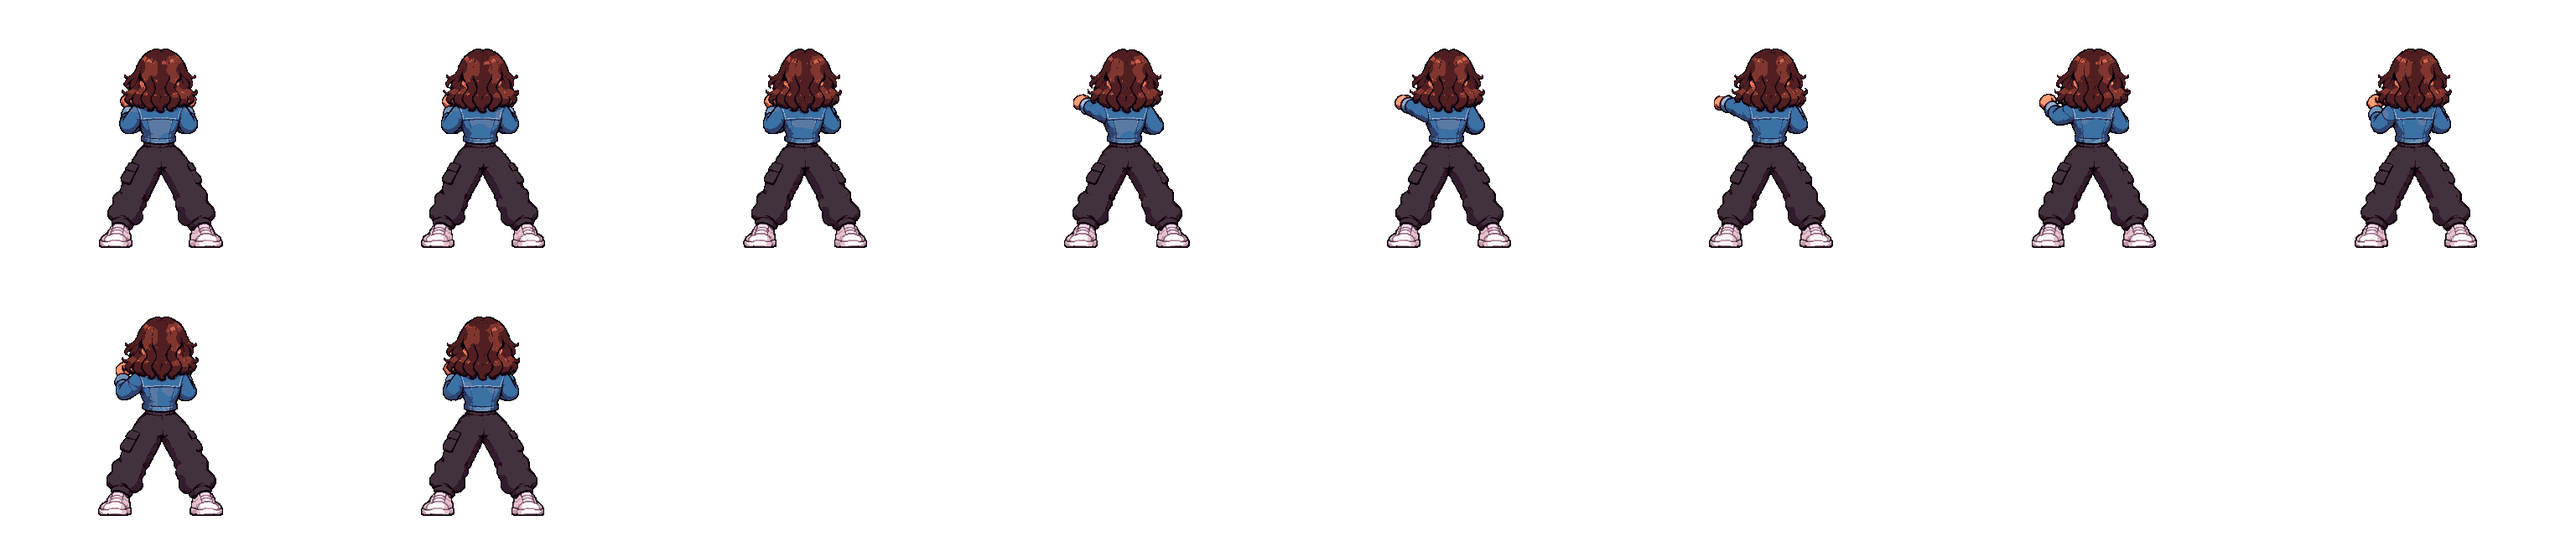
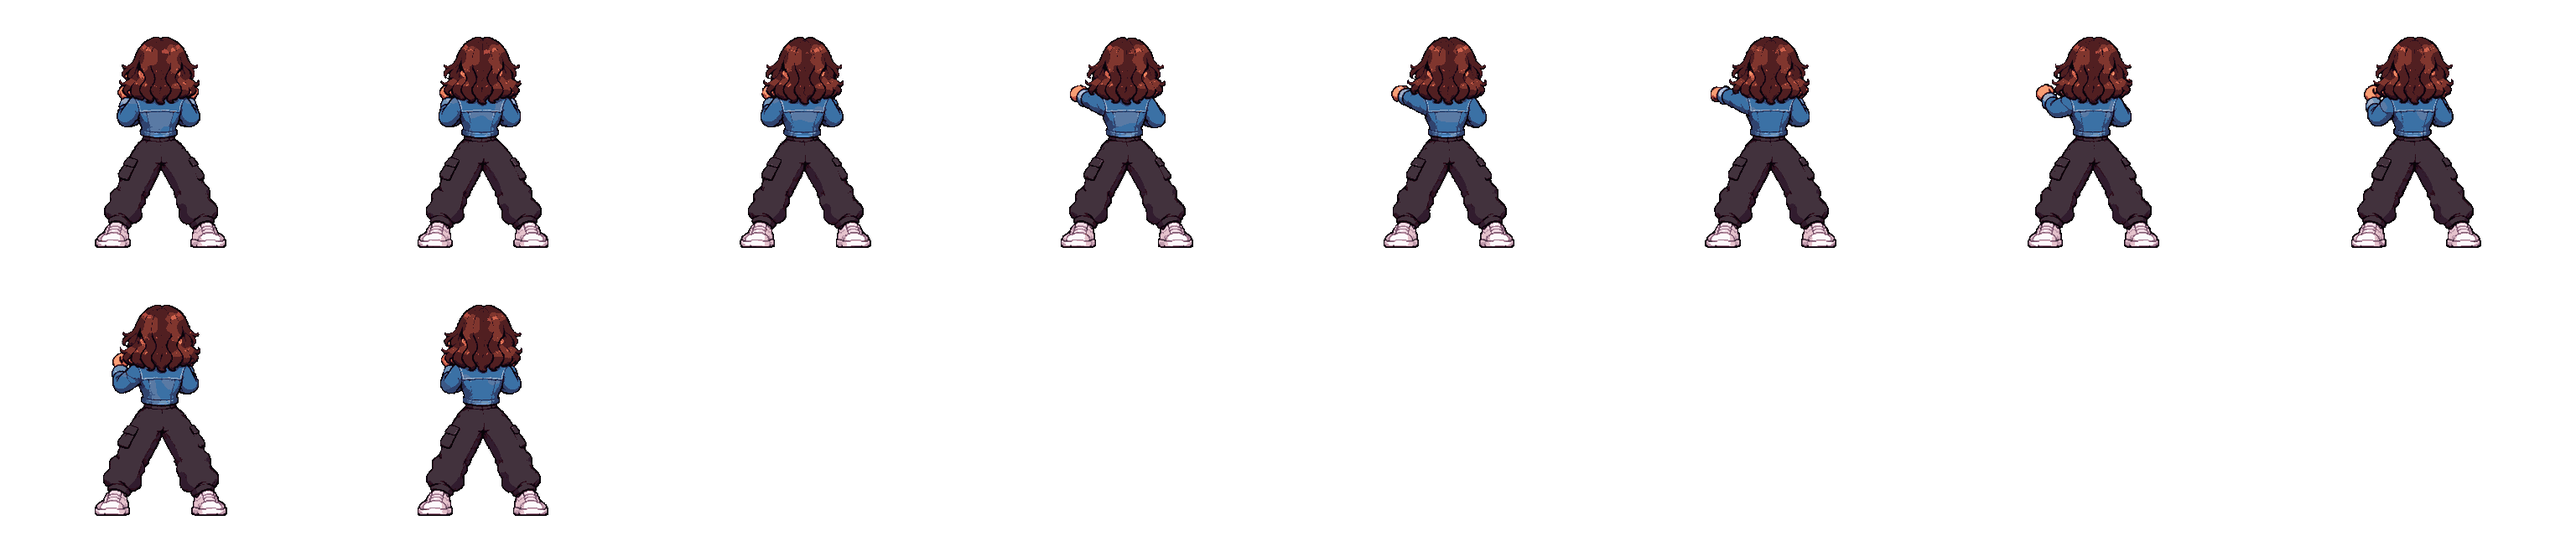
Zee idle and makeup idle redrawn from scratch: one drawing per view (side, front, back), so both are the same size and look; front/back punches and front run resized to the new idle

diff --git a/assets/characters/zee/zee.manifest.js b/assets/characters/zee/zee.manifest.js
@@ -12,16 +12,11 @@
     "standingHeightPx":  264,
     "facing":  "right",
     "strips":  {
-                   "idle":  {
-                                "file":  "zee_idle.png",
-                                "frames":  12,
-                                "cols":  8
-                            },
-                   "idle_makeup":  {
-                                       "file":  "zee_idle_makeup.png",
-                                       "frames":  16,
-                                       "cols":  8
-                                   },
+                   "idlemk":  {
+                                  "file":  "zee_idlemk.png",
+                                  "frames":  16,
+                                  "cols":  8
+                              },
                    "walk":  {
                                 "file":  "zee_walk.png",
                                 "frames":  12,
@@ -97,16 +92,6 @@
                                  "frames":  16,
                                  "cols":  8
                              },
-                   "idle_front":  {
-                                      "file":  "zee_idle_front.png",
-                                      "frames":  12,
-                                      "cols":  8
-                                  },
-                   "idle_makeup_front":  {
-                                             "file":  "zee_idle_makeup_front.png",
-                                             "frames":  16,
-                                             "cols":  8
-                                         },
                    "walk_front":  {
                                       "file":  "zee_walk_front.png",
                                       "frames":  12,
@@ -147,16 +132,6 @@
                                        "frames":  12,
                                        "cols":  8
                                    },
-                   "idle_back":  {
-                                     "file":  "zee_idle_back.png",
-                                     "frames":  12,
-                                     "cols":  8
-                                 },
-                   "idle_makeup_back":  {
-                                            "file":  "zee_idle_makeup_back.png",
-                                            "frames":  16,
-                                            "cols":  8
-                                        },
                    "walk_back":  {
                                      "file":  "zee_walk_back.png",
                                      "frames":  12,
@@ -196,19 +171,29 @@
                                       "file":  "zee_dodge_back.png",
                                       "frames":  12,
                                       "cols":  8
-                                  }
+                                  },
+                   "idlemk_front":  {
+                                        "file":  "zee_idlemk_front.png",
+                                        "frames":  16,
+                                        "cols":  8
+                                    },
+                   "idlemk_back":  {
+                                       "file":  "zee_idlemk_back.png",
+                                       "frames":  16,
+                                       "cols":  8
+                                   }
                },
     "animations":  {
                        "idle":  {
-                                    "strip":  "idle",
+                                    "strip":  "idlemk",
                                     "from":  0,
-                                    "to":  11,
-                                    "fps":  10,
+                                    "to":  3,
+                                    "fps":  5,
                                     "loop":  true
                                 },
                        "idle_makeup":  {
-                                           "strip":  "idle_makeup",
-                                           "from":  0,
+                                           "strip":  "idlemk",
+                                           "from":  4,
                                            "to":  15,
                                            "fps":  6.5,
                                            "loop":  false
@@ -417,15 +402,15 @@
                                                         ]
                                         },
                        "idle_front":  {
-                                          "strip":  "idle_front",
+                                          "strip":  "idlemk_front",
                                           "from":  0,
-                                          "to":  11,
-                                          "fps":  10,
+                                          "to":  3,
+                                          "fps":  5,
                                           "loop":  true
                                       },
                        "idle_makeup_front":  {
-                                                 "strip":  "idle_makeup_front",
-                                                 "from":  0,
+                                                 "strip":  "idlemk_front",
+                                                 "from":  4,
                                                  "to":  15,
                                                  "fps":  6.5,
                                                  "loop":  false
@@ -534,15 +519,15 @@
                                                        ]
                                        },
                        "idle_back":  {
-                                         "strip":  "idle_back",
+                                         "strip":  "idlemk_back",
                                          "from":  0,
-                                         "to":  11,
-                                         "fps":  10,
+                                         "to":  3,
+                                         "fps":  5,
                                          "loop":  true
                                      },
                        "idle_makeup_back":  {
-                                                "strip":  "idle_makeup_back",
-                                                "from":  0,
+                                                "strip":  "idlemk_back",
+                                                "from":  4,
                                                 "to":  15,
                                                 "fps":  6.5,
                                                 "loop":  false

diff --git a/src/main.js b/src/main.js
@@ -1,14 +1,14 @@
 // Game shell: loads Zee, runs the loop, draws the placeholder office + HUD, wires pause / touch UI.
-import { CONFIG } from './config.js?v=202611271717';
-import { loadCharacter, VERSION, LOOK, setLight } from './assets.js?v=202611271717';
-import { Input } from './input.js?v=202611271717';
-import { Zee } from './zee.js?v=202611271717';
-import { Game } from './game.js?v=202611271717';
-import { ENEMY_IDS } from './enemy.js?v=202611271717';
-import { drawHud as drawArcadeHud } from './hud.js?v=202611271717';
-import { Level, qualityDepartment } from './level.js?v=202611271717';
-import { Camera } from './camera.js?v=202611271717';
-import { unlock } from './sfx.js?v=202611271717';
+import { CONFIG } from './config.js?v=202611271802';
+import { loadCharacter, VERSION, LOOK, setLight } from './assets.js?v=202611271802';
+import { Input } from './input.js?v=202611271802';
+import { Zee } from './zee.js?v=202611271802';
+import { Game } from './game.js?v=202611271802';
+import { ENEMY_IDS } from './enemy.js?v=202611271802';
+import { drawHud as drawArcadeHud } from './hud.js?v=202611271802';
+import { Level, qualityDepartment } from './level.js?v=202611271802';
+import { Camera } from './camera.js?v=202611271802';
+import { unlock } from './sfx.js?v=202611271802';
 
 const { w: W, h: H } = CONFIG.view;
 const canvas = document.getElementById('game');

diff --git a/src/level.js b/src/level.js
@@ -20,8 +20,8 @@
 //   light: { rim, rimAlpha, rimPx, lightX, lightY, wash, washAlpha, feet } = how Zee and the enemies are lit in this room
 //   (rim / wash are [r,g,b]); the game eases from one room's light to the next (see setLight in assets.js).
 //   doorRight is the door to the NEXT room: while it is locked the player cannot pass it; no door (or unlocked) = open.
-import { CONFIG } from './config.js?v=202611271717';
-import { VERSION } from './assets.js?v=202611271717';
+import { CONFIG } from './config.js?v=202611271802';
+import { VERSION } from './assets.js?v=202611271802';
 
 const C = CONFIG.camera, F = CONFIG.floor;
 export const LAYER_H = 507;                       // layer height in pixels (the view shows 506.25)

diff --git a/src/game.js b/src/game.js
@@ -1,9 +1,9 @@
 // Game world: Zee + enemies, combat resolution, projectiles and all the "juice" (hit flash, sparks, shake, hit-stop, sound).
-import { CONFIG } from './config.js?v=202611271717';
-import { Enemy } from './enemy.js?v=202611271717';
-import { SOFT } from './zee.js?v=202611271717';
-import { sfx } from './sfx.js?v=202611271717';
-import { drawAnim } from './assets.js?v=202611271717';
+import { CONFIG } from './config.js?v=202611271802';
+import { Enemy } from './enemy.js?v=202611271802';
+import { SOFT } from './zee.js?v=202611271802';
+import { sfx } from './sfx.js?v=202611271802';
+import { drawAnim } from './assets.js?v=202611271802';
 
 const E = CONFIG.enemy;
 

diff --git a/src/enemy.js b/src/enemy.js
@@ -1,8 +1,8 @@
 // Enemy: a fighter with a small brain. It lines up with Zee, flanks, chains combos, sidesteps her swings, punishes her recovery,
 // throws call-centre headsets, and (navy + sporty, the "heavies") grabs and throws her.
 // Art comes from assets/characters/<id>/ ; every enemy shares this one brain.
-import { CONFIG } from './config.js?v=202611271717';
-import { frameAt, drawAnim, drawShadow, LOOK } from './assets.js?v=202611271717';
+import { CONFIG } from './config.js?v=202611271802';
+import { frameAt, drawAnim, drawShadow, LOOK } from './assets.js?v=202611271802';
 
 const E = CONFIG.enemy;
 const rnd = (a, b) => a + Math.random() * (b - a);

diff --git a/src/hud.js b/src/hud.js
@@ -1,8 +1,8 @@
 // Arcade HUD (early-2000s style): angled panels with white outlines, glossy bars, bold italic type.
 // Built from separate pieces drawn in game units, so it scales with the canvas at any resolution.
 // Top-left: portrait + HP bar + SP meter. Bottom-left: KO counter. All values come from the live game state.
-import { CONFIG } from './config.js?v=202611271717';
-import { VERSION } from './assets.js?v=202611271717';
+import { CONFIG } from './config.js?v=202611271802';
+import { VERSION } from './assets.js?v=202611271802';
 
 const portrait = new Image();
 portrait.src = 'assets/ui/zee_portrait.png?v=' + VERSION;

diff --git a/src/zee.js b/src/zee.js
@@ -1,7 +1,7 @@
 // Zee: the player character. A small state machine driven by input actions.
 // Movement, combat timing, and animation selection live here; art comes from the manifest (assets.js).
-import { CONFIG } from './config.js?v=202611271717';
-import { frameAt, drawAnim, drawShadow, LOOK } from './assets.js?v=202611271717';
+import { CONFIG } from './config.js?v=202611271802';
+import { frameAt, drawAnim, drawShadow, LOOK } from './assets.js?v=202611271802';
 
 const C = CONFIG.zee;
 // Front and back sheets are drawn as seen by the camera, so they are never mirrored (her badge and hand stay on the correct side).

diff --git a/src/camera.js b/src/camera.js
@@ -1,7 +1,7 @@
 // The world camera. The world is drawn through a zoomed-out camera (CONFIG.camera.zoom, about 0.71): 900 x 506 world units
 // are visible and rendered into the 640 x 360 screen. The camera follows Zee horizontally (with a little look-ahead in the
 // direction she faces) and is clamped to the level. It never scrolls vertically: the world is exactly one screen tall.
-import { CONFIG } from './config.js?v=202611271717';
+import { CONFIG } from './config.js?v=202611271802';
 
 export class Camera {
   constructor() { this.x = 0; this.px = 0; this.gx = 0; this.look = 0; this.ready = false; }

diff --git a/src/assets.js b/src/assets.js
@@ -1,6 +1,6 @@
 // Loads a character's manifest + strips and turns them into ready-to-play animation objects.
 // To swap art, replace the PNG strips / manifest in assets/characters/<name>/ - no code changes needed.
-import { CONFIG } from './config.js?v=202611271717';
+import { CONFIG } from './config.js?v=202611271802';
 
 // Release stamp, taken from this module's own URL (?v=...): every release uses new URLs so browsers never serve stale files.
 export const VERSION = new URL(import.meta.url).searchParams.get('v') || 'dev';

diff --git a/index.html b/index.html
@@ -93,7 +93,7 @@
 <div id="rotate"><div><h2>Rotate your phone</h2><p style="color:var(--mute)">This game plays in landscape.</p></div></div>
 <div id="loading"><div><div class="lt">CALL TERMINATED</div><div class="ls">is loading...</div></div></div>
 
-<script type="module" src="src/main.js?v=202611271717"></script>
+<script type="module" src="src/main.js?v=202611271802"></script>
 </body>
 </html>
 

diff --git a/src/input.js b/src/input.js
@@ -1,6 +1,6 @@
 // Unified input: keyboard on PC/laptop, floating joystick + buttons on touch devices.
 // The game only reads: input.axis (x,y in -1..1), input.run, and input.consume() (one-shot actions).
-import { CONFIG } from './config.js?v=202611271717';
+import { CONFIG } from './config.js?v=202611271802';
 
 export class Input {
   constructor(root = document) {

diff --git a/HANDOFF.md b/HANDOFF.md
@@ -70,6 +70,6 @@ zee.view = side/front/back (zee.js _dir() falls back to the side animation when 
 Masters: sprites/zee/master/zee_master_front_v1.png, _back_v1.png. All 10 moves exist front and back (idle, idle_makeup, walk, run, jump, punch_1-3, jump_kick, dodge); raw sheets sprites/zee/raw/<move>_front_v1.png / _back_v1.png, sizes in tools/zee-views.json (matched to the side view by hair size and height). Special, hurt, knockdown, get up, victory, interact and prone stay side view. Front/back attacks hit along the floor depth (game.js _zeeAttacks). Enemies get four directions later, when the user asks.
 
 ## Zee redo (2026-11-27)
-- Makeup idle (all views): drawn from the idle frame of each view; tools/makeup-from-idle.ps1 (run by build-zee) keeps the idle legs + first/last frame and takes the upper body from the makeup strip. Back idle redone 2026-11-27 (idle_back_v2: arms down, full build) and back makeup from it (idle_makeup_back_v3).
+- Idle + makeup idle (all views) come from ONE drawing per view: sprites/zee/raw/idlemk_side_v1.png, idlemk_front_v1.png, idlemk_back_v1.png (16 frames: row 1 = idle breathing loop -> anim idle 0-3; rows 2-4 = makeup -> anim idle_makeup 4-15, ending in the idle pose). Same size and look by construction. The separate idle/makeup sheets and makeup-from-idle.ps1 are gone.
 - dodge_front_v2: a real floor somersault toward the camera.
 - Front/back punches use both hands: punch_1 = left jab, punch_2 = right cross, punch_3 = two-fisted double punch (punch_*_front_v2 / _back_v2). Sizes in tools/zee-views.json.
